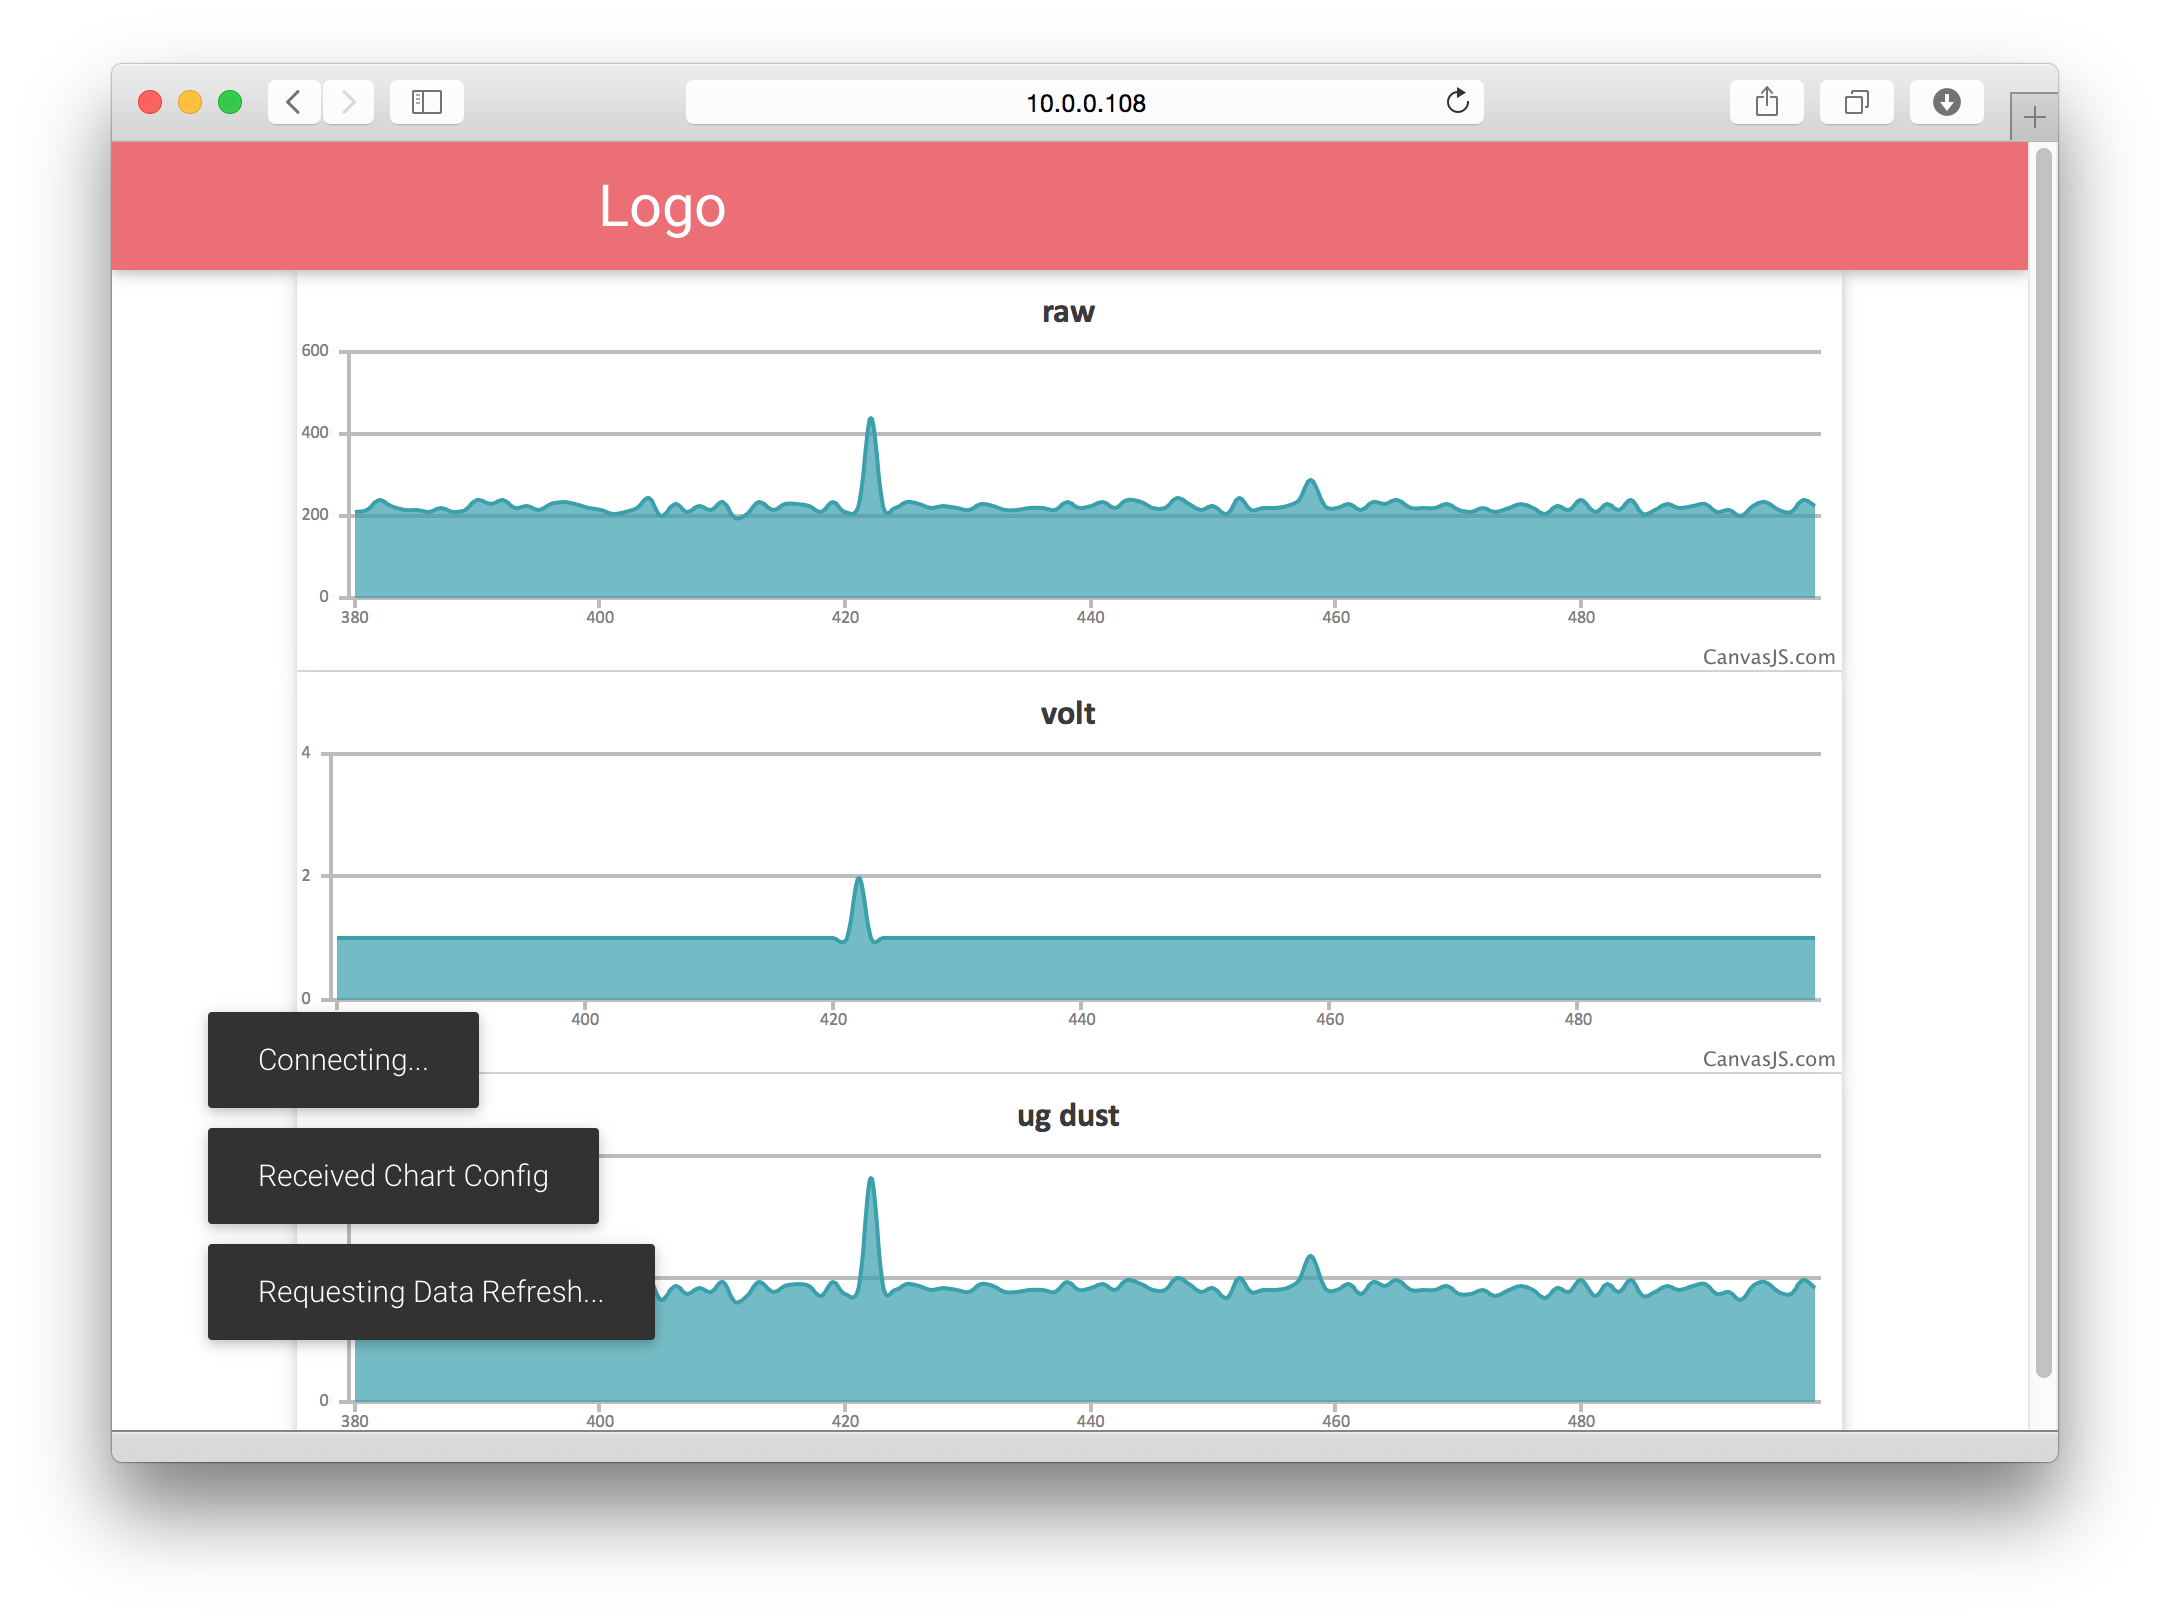
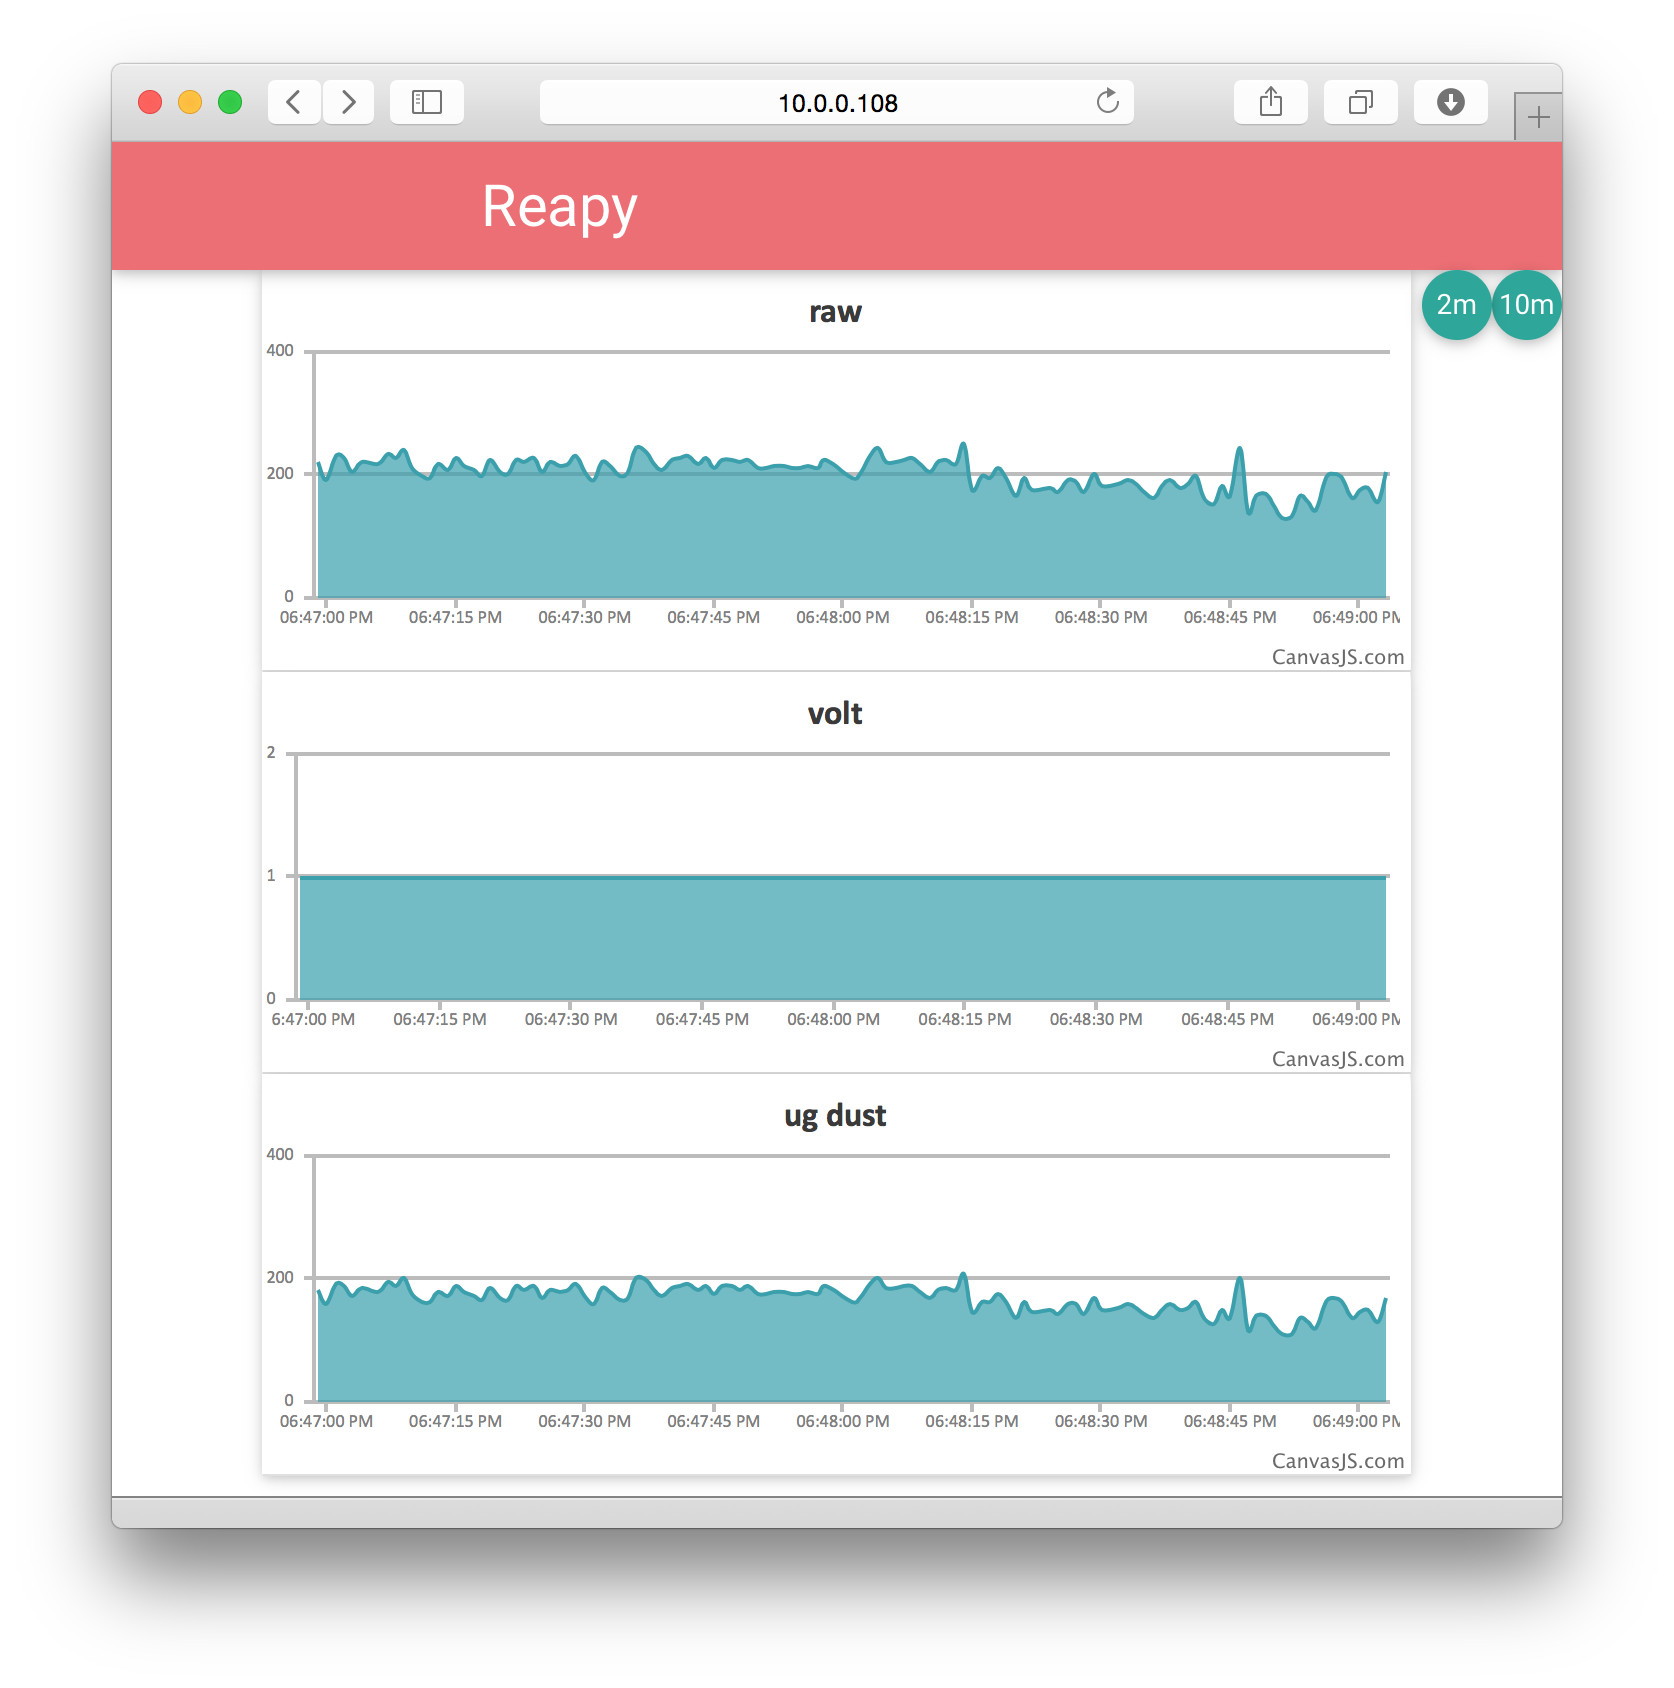
better UI, history requests

Changed region(s): [[0.0311, 0.0308, 0.963, 0.9248]]

diff --git a/static/index.html b/static/index.html
@@ -15,21 +15,51 @@
   
   // list of charts
   var charts = [];
+  
   // counter
   var chartCount = 0;
+  
+  var data_lock = false;
   
   // refresh rate of all charts
   var refresh_rate = 20;
   // max graph and cache length in samples
-  var dataLength = 500;
+  var dataLength = 120;
+  
+  // holder for refresh_history
+  var refresh_history; 
+  
+  // set the history length to n elements
+  var set_history = function(d)
+  {
+    app_status("Set History to " + d);
+    console.log("setting dataLength to " + d);
+    if (d > dataLength) {
+      console.log("calling refresh history");
+      dataLength = d;
+      refresh_history();
+    }
+    dataLength = d;
+  }
+  
+  // common method to update all charts on the page
+  var chart_clear = function() {
+    app_status("Clearing Charts");
+    var i = 0;
+    for (var c in charts) {
+      charts[i].clear();
+      i++;
+    };
+  };
   
   // common method to update all charts on the page
   var chart_update = function(y) {
-    var i = 0;
+    var i = 1;
     // we lock y[i] and c together, since we always want to update the same number of charts, with the same number of values ( for now )
     // this gets tricky for multi value graphs
     for (var c in charts) {
-      charts[i].update(y[i]);
+      // push the time from y[0] and value from y[i]
+      charts[i-1].update(y[0], y[i]);
       i++;
     };
   };
@@ -43,7 +73,7 @@
   
 	window.onload = function () {
     console.log("window onload");
-    window.scrollTo(0,1);
+    app_status("Ready");
   };
   
 	</script>
@@ -63,21 +93,34 @@
           $(document).ready(function(){
               namespace = '/stream';
               
+              // just a socket.io
               var socket = io.connect('http://' + document.domain + ':' + location.port + namespace, {
                 'reconnection delay': 1000,
                 'max reconnection attempts': Infinity
               });
               
-              // on connect, request a config
+              // lock, clear, request-refresh
+              refresh_history = function()
+              {
+                app_status("Disabling Realtime Data");
+                console.log("calling chart_clear");
+                data_lock = true; // lock to prevent timeline contamination during refresh
+                chart_clear();
+                
+                console.log("sending socket request for refresh");
+                app_status("Request Timeline Refresh");
+                socket.emit('refresh', {data: 'hit me'});
+              }
+              
+              // connect event
               socket.on('connect', function() {
                 console.log("connect")
                 
-                // clear the scene
+                // delete all graphs, this could only fire if config changed. TODO FIXME
                 var node = document.getElementById('charts');
                 while (node.hasChildNodes()) {
                     node.removeChild(node.lastChild);
                 }
-                
                 // reset some vars
                 charts = [];
                 chartCount = 0;
@@ -113,9 +156,24 @@
               
               // data handler for chart data, chart data is a list [v1, v2, v3]
               socket.on('chart data', function(msg) {
-                  //console.log('Received #' + msg.count + ': ' + msg.data);
+                if (!data_lock)
+                {
+                  chart_update(msg.data);
+                }
+              });
+              
+              // separate handler for refresh data, do stop timeline sequence errors.
+              socket.on('chart refresh data', function(msg) {
                   chart_update(msg.data);
               });
+              
+              // the chart refresh complete event turns off the data_lock
+              socket.on('chart refresh complete', function(msg) {
+                app_status("Enabling Realtime Data");
+                console.log("refresh complete, unlocking data_lock");
+                data_lock = false;
+              });
+              
               
               // data handler for chart config
               /*
@@ -129,14 +187,19 @@
               
               */
               socket.on('chart config', function(msg) {
-                  console.log('chart config event: ' + msg.data);
+                  console.log('chart config event');
+                  console.log(msg.data);
                   app_status("Received Chart Config")
-                  var i = 1;
-                  while (i<=msg.data['number'])
+                  
+                  // start from position 2, since 1 is the time index
+                  var i = 2;
+                  while (i<=msg.data['number']+1)
                   {
-                    if ( typeof(msg.data['titles'][i-1]) != 'undefined' )
+                    console.log("Creating chart " + (i-1) );
+                    console.log(typeof(msg.data['titles'][i-1]));
+                    if ( typeof(msg.data['titles'][i-2]) != 'undefined' )
                     {
-                      charts.push(new ZChart(msg.data['titles'][i-1], dataLength));
+                      charts.push(new ZChart(msg.data['titles'][i-2], dataLength));
                     } else {
                       charts.push(new ZChart("value " + i, dataLength));
                     }
@@ -156,13 +219,17 @@
   <div class="navbar-fixed">
   <nav>
       <div class="nav-wrapper">
-        <a href="#" class="brand-logo right">Logo</a>
+        <a href="#" class="brand-logo right">Reapy</a>
         <ul id="nav-mobile" class="left hide-on-med-and-down">
           <li><a href="sass.html">Sass</a></li>
           <li><a href="components.html">Components</a></li>
           <li><a href="javascript.html">JavaScript</a></li>
         </ul>
       </div>
+      <ul>
+      <a class="waves-effect waves-circle waves-light btn-floating secondary-content" onclick="set_history(600)">10m</a>
+      <a class="waves-effect waves-circle waves-light btn-floating secondary-content" onclick="set_history(120)">2m</a>
+      </ul>
     </nav>
   </div>
 

diff --git a/static/js/zchart.js b/static/js/zchart.js
@@ -1,10 +1,13 @@
-var ZChart = function(name, dataLength)
+// My ZChart Class
+
+var ZChart = function(name, dl)
 {
   this.name = name;
-  this.dataLength = dataLength;
+  this.dataLength = dl;
   this.dps = [];
   this.yVal = 0;
   this.xVal = 0;
+  this.self = this;
   
   // create a new DIV
   // console.log("creating div element for " + chartCount);
@@ -26,7 +29,7 @@ var ZChart = function(name, dataLength)
   {
 		title :{
 			text: this.name
-		},	
+		},
 		data: [{
 			type: "splineArea",
 			dataPoints: this.dps 
@@ -34,25 +37,51 @@ var ZChart = function(name, dataLength)
 	});
   
   
-  this.update = function(y1)
+  this.update = function(x1, y1)
   {
-    this.yVal=Math.round(y1)
+    //console.log("updating x1: " + x1 + " and y1: " + y1);
+    if (this.dataLength != dataLength )
+    {
+      console.log("dataLength changed, updating");
+      this.dataLength = dataLength;
+    }
+    
+    this.yVal=Math.round(y1);
+    this.xVal=x1;
   	this.dps.push({
   		y: this.yVal,
-  		x: this.xVal
+  		x: new Date(x1)
   	});
-    
-    // move time along
-    this.xVal++;
-    
+
   	if (this.dps.length > this.dataLength)
   	{
-  		this.dps.shift();
+		  this.dps.shift();
   	}
     
   }
 
-  window.setInterval(this.chart.render, refresh_rate);
+  this.clear = function()
+  {
+    // this.dps=[];
+//     this.dps.push(0,0);
+    while (this.dps.length > 0)
+    {   
+      this.dps.shift();
+    }
+  }
+
+
+  this.zrender = function()
+  {
+  	if (self.dps.length > self.dataLength)
+  	{
+		  self.dps.shift();
+  	}
+    self.chart.render();
+  }
+
+  var self = this;
+  window.setInterval(this.zrender, refresh_rate);
   
   chartCount++;
     

diff --git a/server.py b/server.py
@@ -22,6 +22,7 @@ import serial
 import re
 import threading
 import time
+import datetime
 import collections
 import json
 from flask import Flask, request, redirect, url_for, send_from_directory, render_template
@@ -30,7 +31,7 @@ from optparse import OptionParser
 from watchdog.observers import Observer
 from watchdog.events import FileSystemEventHandler
 import logging
-logging.basicConfig(level=logging.DEBUG, format='%(asctime)s %(levelname)s %(name)s %(message)s')
+logging.basicConfig(level=logging.INFO, format='%(asctime)s %(levelname)s %(name)s %(message)s')
 logger = logging.getLogger("server")
 app = Flask(__name__, static_url_path='')
 socketio = SocketIO(app)
@@ -45,6 +46,7 @@ default_regex = '^Raw: (\d+.\d+); - Voltage: (\d+.\d+); - Dust Density \[ug\/m3\
 # save some history for client refreshes
 values = collections.deque(maxlen=500)
 
+realtime = True
 
 class FileHandler(FileSystemEventHandler):
   '''
@@ -94,19 +96,23 @@ def handle_data(data):
     # results holder
     results = []
     
+    # start with a date in the results as 1st argument
+    results.append(datetime.datetime.now().strftime('%a %b %d %y %H:%M:%S %Z%z'))
+    
     # loop over groups and make a list of the findings
     x = 1;
     while x <= num_groups:
       logger.debug("group: " + str(x))
-      logger.info("group contents " + str(m.group(x)))
+      logger.debug("group contents " + str(m.group(x)))
       results.append(m.group(x))
+      #  datetime.datetime.now().strftime('%a %b %d %y %H:%M:%S %Z%z')
       x=x+1
     
     # save results in values ( for browser refresh )
     values.append(results)
     
     # broadcast results
-    logger.info("broadcasting: " + str(results))
+    logger.debug("broadcasting: " + str(results))
     broadcast_value(results)
     
   except Exception as e:
@@ -170,7 +176,8 @@ def connect():
 def refresh(message):
   try:
     logger.info('Client requests chart config')
-    emit('chart config', {'data': {'number': len(values.pop()), 'titles': options.names} })
+    # subtract 1 ( the time index ) from number of values
+    emit('chart config', {'data': {'number': len(values.pop())-1, 'titles': options.names} })
     
   except Exception, e:
     time.sleep(2)
@@ -183,13 +190,19 @@ def refresh(message):
 def refresh(message):
   logger.info('Client refresh requested')
   # send the history
+  realtime = False
   for v in list(values):
-    emit('chart data', {'data': v})
-
+    emit('chart refresh data', {'data': v})
+  logger.info("done, unlocking and sending complete event")
+  realtime = True
+  emit('chart refresh complete', {'data': 'done!'})
 
 # send a value change from outside the Flask context.
 def broadcast_value(val):
-  socketio.emit("chart data", {'data': val}, namespace='/stream')
+  if realtime:
+    socketio.emit("chart data", {'data': val}, namespace='/stream')
+  else:
+    logger.warning("realtime event suspended");
 
 
 # list builder for optparse
